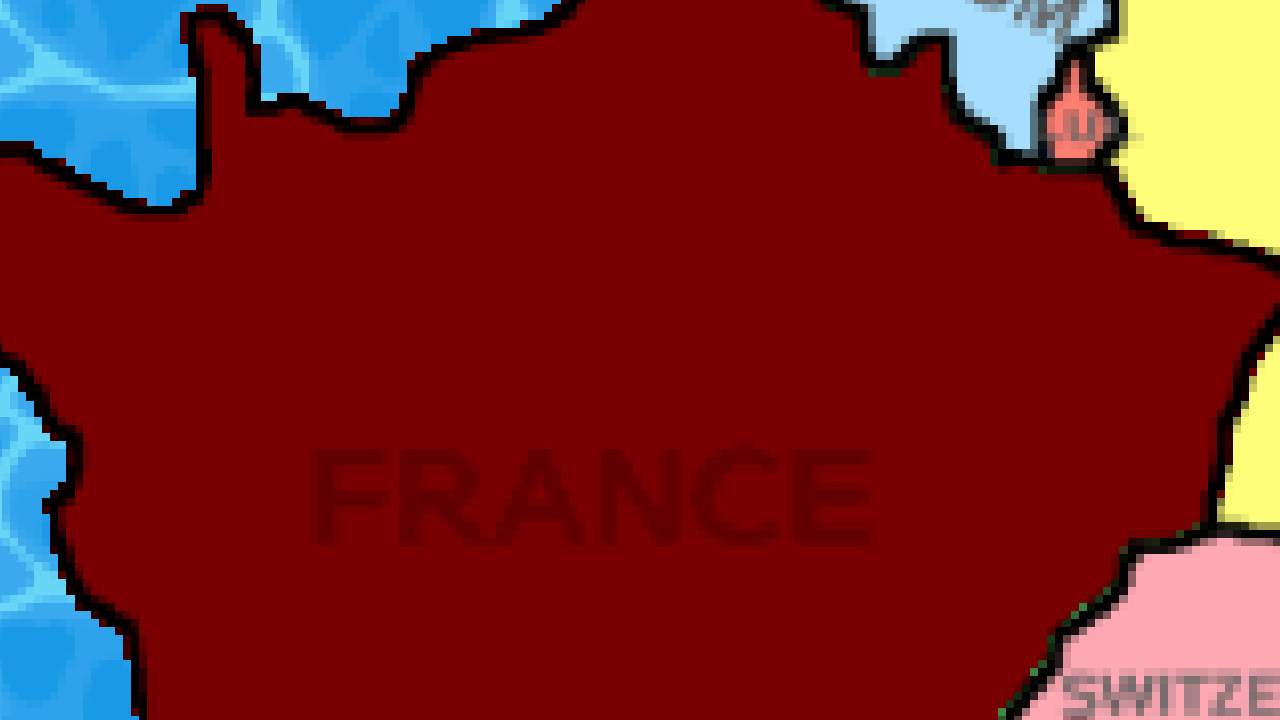
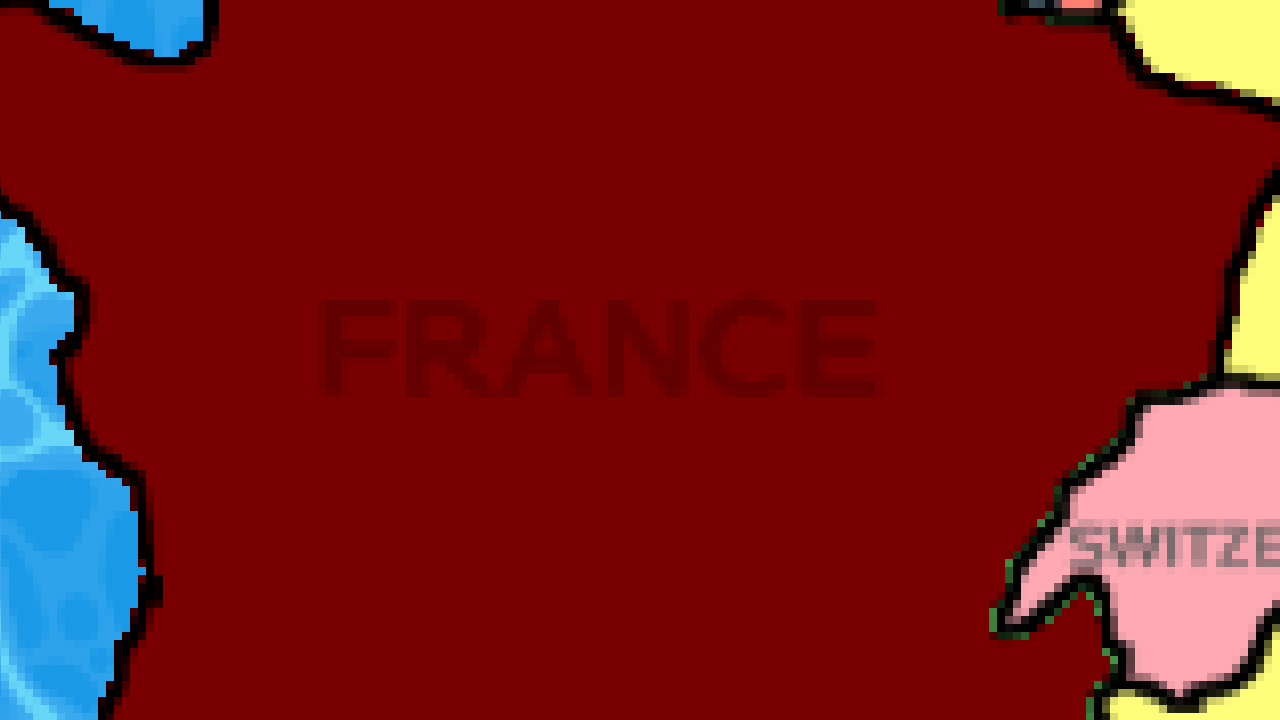
Just updates

Changed region(s): [[0.625, 0.0, 1.0, 1.0], [0.0, 0.0, 0.4688, 0.3056], [0.0, 0.275, 0.125, 1.0]]

diff --git a/system/states/game_state.go b/system/states/game_state.go
@@ -8,9 +8,10 @@ import (
 )
 
 type GameState struct {
-	Alpha uint8
-	Map   *gamemap.GameMap
-	Music map[string]raylib.Music
+	Alpha  uint8
+	Map    *gamemap.GameMap
+	Music  map[string]raylib.Music
+	Camera raylib.Camera2D
 }
 
 func (state *GameState) Load() {
@@ -24,6 +25,11 @@ func (state *GameState) Load() {
 	state.Music["preparing"] = raylib.LoadMusicStream("res/musics/ost/War Thunder Soundtrack_ Menu Music 4.ogg")
 	raylib.SetMusicLoopCount(state.Music["preparing"], -1)
 	raylib.PlayMusicStream(state.Music["preparing"])
+
+	state.Camera = raylib.NewCamera2D(raylib.NewVector2(0, 0),
+		raylib.NewVector2(float32(raylib.GetScreenWidth())/2, float32(raylib.GetScreenHeight())/2),
+		0.0,
+		1.0)
 }
 
 func (state *GameState) Update() {
@@ -52,12 +58,47 @@ func (state *GameState) Update() {
 			}
 		}
 	}
+
+	// Move camera depending mouse position
+
+	if raylib.GetMouseX() < 50 {
+		state.Camera.Target.X -= 0.3
+	}
+
+	if raylib.GetMouseX() > raylib.GetScreenWidth()-50 {
+		state.Camera.Target.X += 0.3
+	}
+
+	if raylib.GetMouseY() < 50 {
+		state.Camera.Target.Y += 0.3
+	}
+
+	if raylib.GetMouseY() > raylib.GetScreenHeight()-50 {
+		state.Camera.Target.Y -= 0.3
+	}
 }
 
 func (state *GameState) Draw() {
 
 	// Drawing the map
-	state.Map.Draw()
+	state.Map.Draw(&state.Camera)
+
+	return
+
+	// The GUI
+
+	// Drawing the pannel
+	raylib.DrawRectangle(0,
+		raylib.GetScreenHeight()-200,
+		raylib.GetScreenWidth(),
+		200,
+		raylib.White)
+
+	raylib.DrawRectangleLines(3,
+		raylib.GetScreenHeight()-197,
+		raylib.GetScreenWidth()-6,
+		194,
+		raylib.Black)
 
 	// Drawing the filter (for un-darking screen)
 	raylib.DrawRectangle(0,
@@ -65,6 +106,8 @@ func (state *GameState) Draw() {
 		raylib.GetScreenWidth(),
 		raylib.GetScreenHeight(),
 		raylib.NewColor(0, 0, 0, state.Alpha))
+
+	// DO NOT ADD CODE UNDER
 }
 
 func (state *GameState) Reset() {

diff --git a/system/gamemap/tile.go b/system/gamemap/tile.go
@@ -5,9 +5,10 @@ import (
 )
 
 type Tile struct {
-	X    float32
-	Y    float32
-	Type rune
+	X     float32
+	Y     float32
+	Model raylib.Model
+	Type  rune
 }
 
 func (tile *Tile) Draw() {
@@ -66,6 +67,9 @@ func (tile *Tile) Draw() {
 			raylib.NewVector2(tile.X, tile.Y),
 			raylib.White)
 	}
+
+	raylib.DrawModel(tile.Model, raylib.NewVector3(tile.X, tile.Y, 0), 2.0, raylib.White)
+	// raylib.DrawPlane(raylib.NewVector3(tile.X-16, tile.Y-16, 0), raylib.NewVector2(32, 32), raylib.White)
 }
 
 func (tile *Tile) ClickedOn() bool {

diff --git a/system/gamemap/game_map.go b/system/gamemap/game_map.go
@@ -107,7 +107,12 @@ func (gm *GameMap) Update() {
 	}
 }
 
-func (gm *GameMap) Draw() {
+func (gm *GameMap) Draw(cam *raylib.Camera2D) {
+
+	// Render the camera
+	raylib.BeginMode2D(*cam)
+
+	// Draw tiles
 	for x := range gm.Tiles {
 		for y := range gm.Tiles[x] {
 			gm.Tiles[x][y].Draw()
@@ -117,4 +122,7 @@ func (gm *GameMap) Draw() {
 	for _, object := range gm.Objects {
 		object.Draw()
 	}
+
+	// End rendering camera
+	raylib.EndMode2D()
 }
